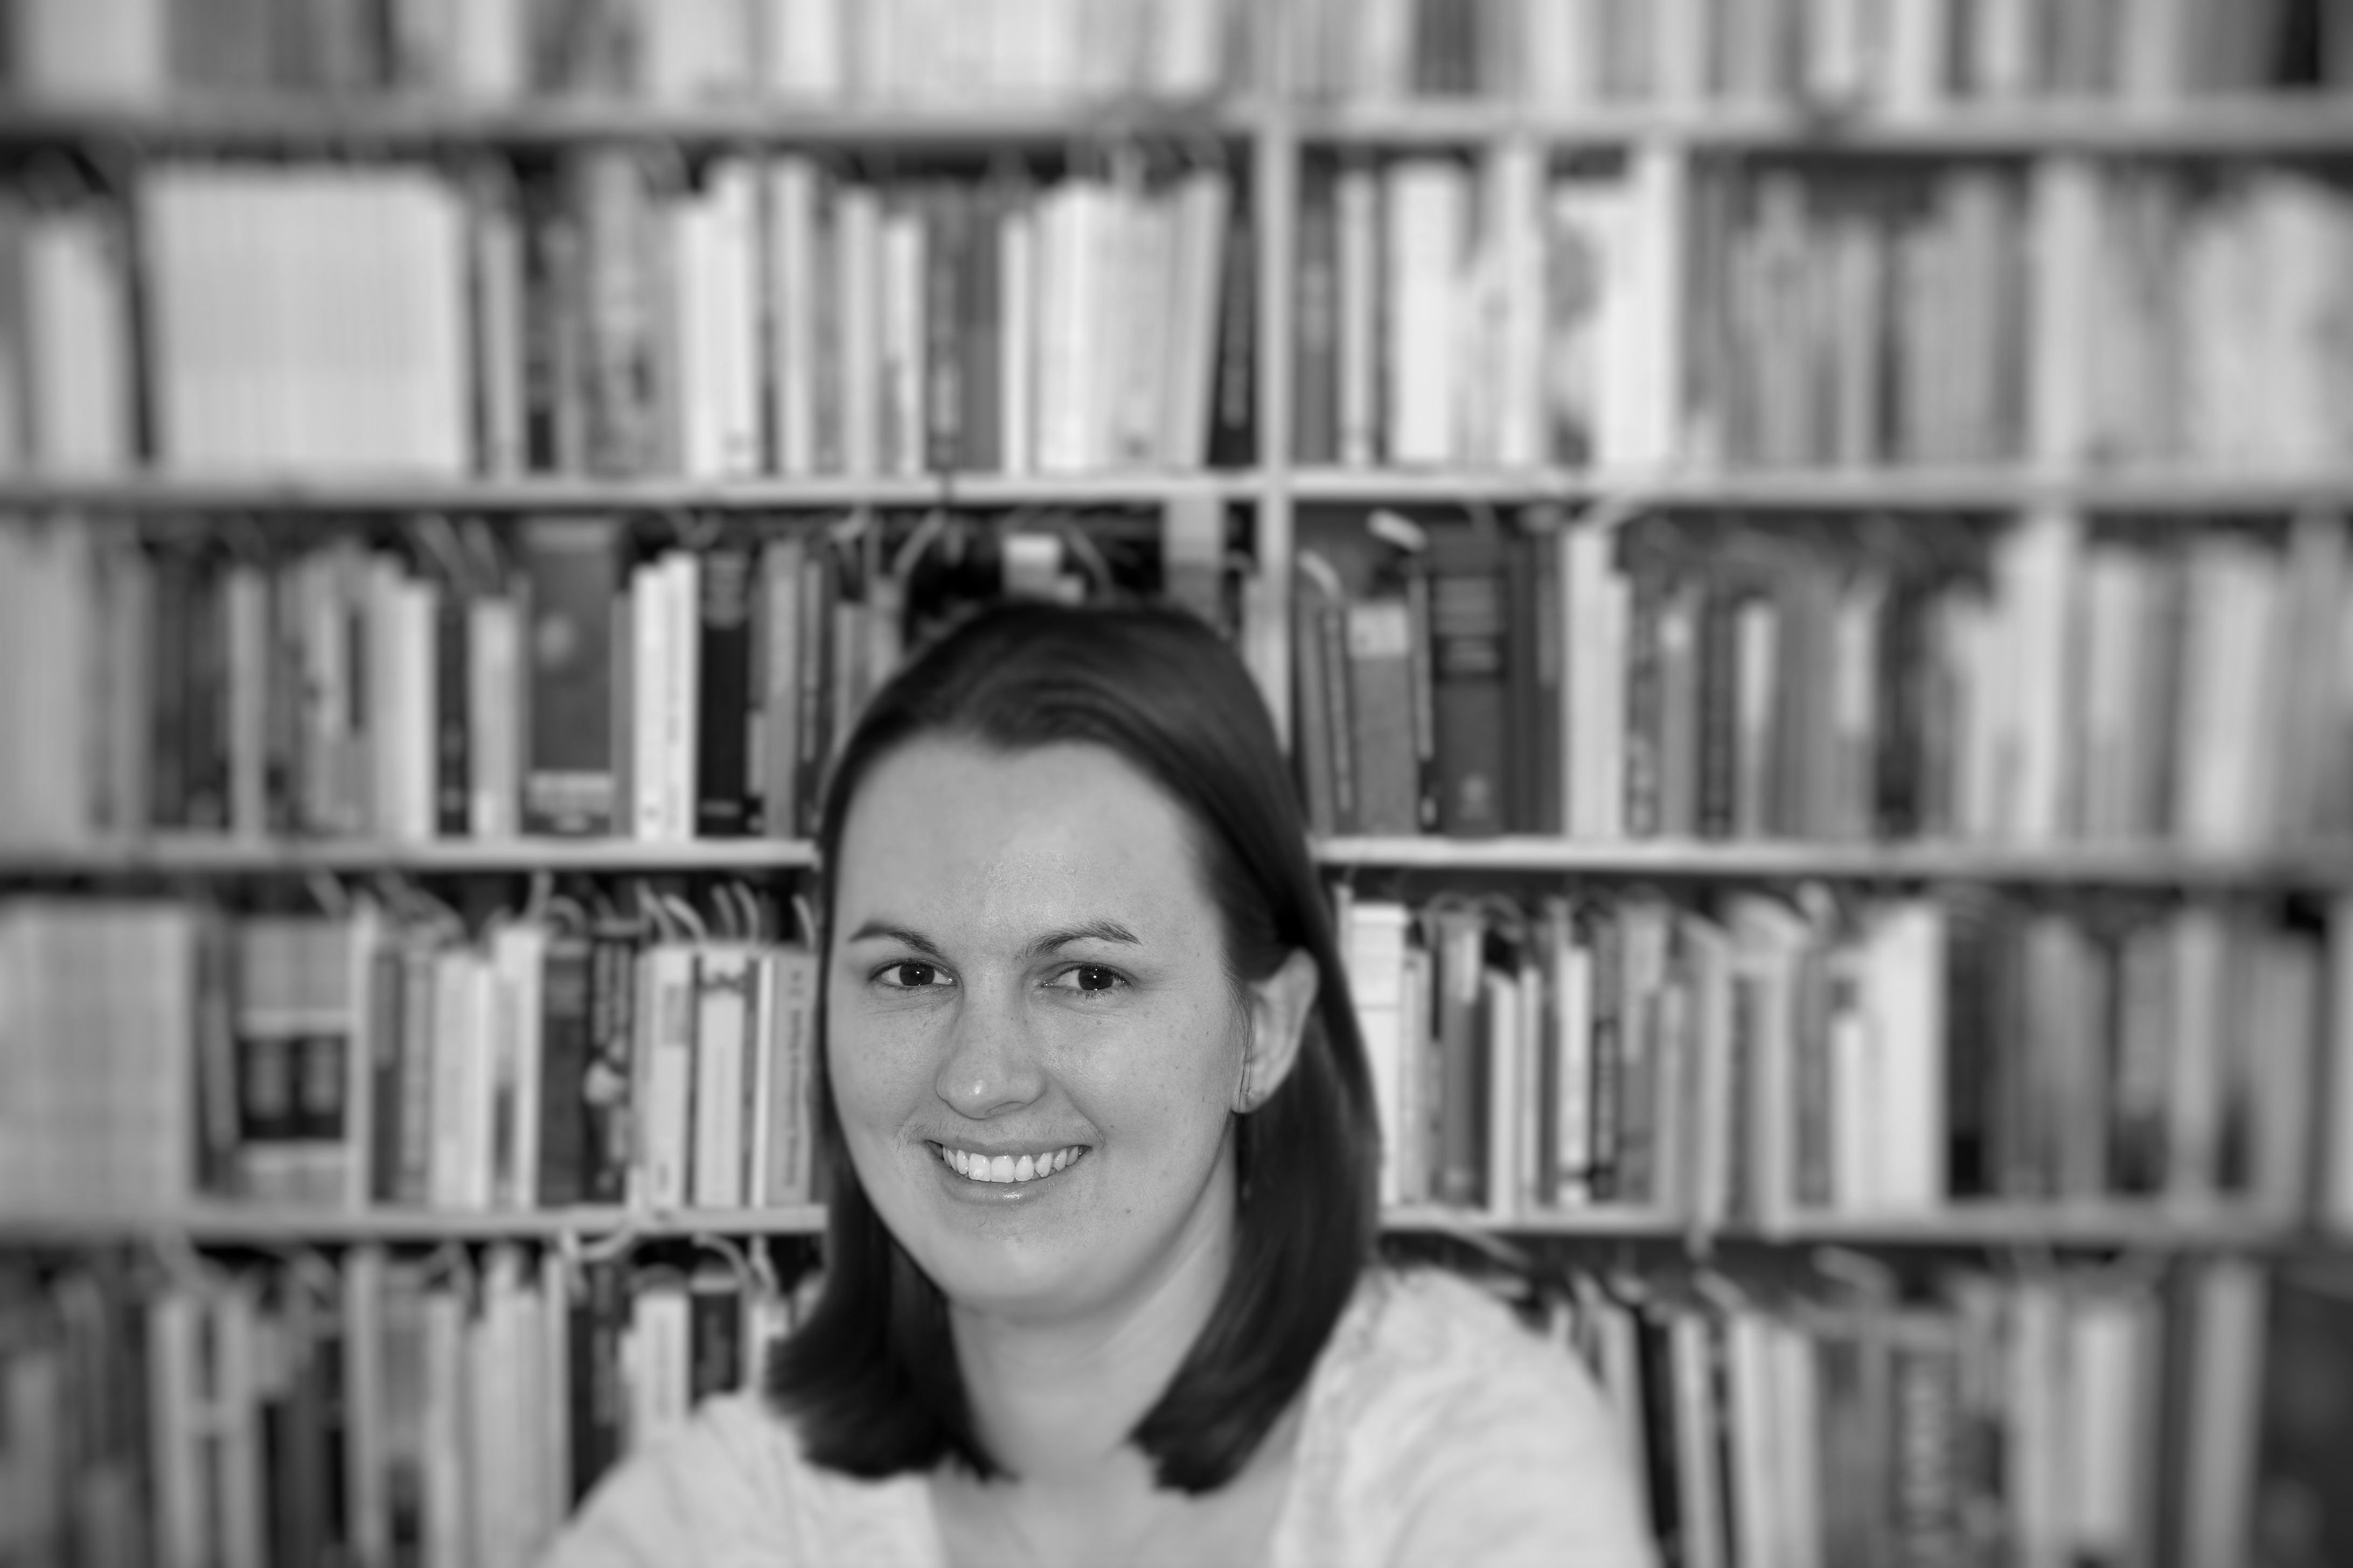
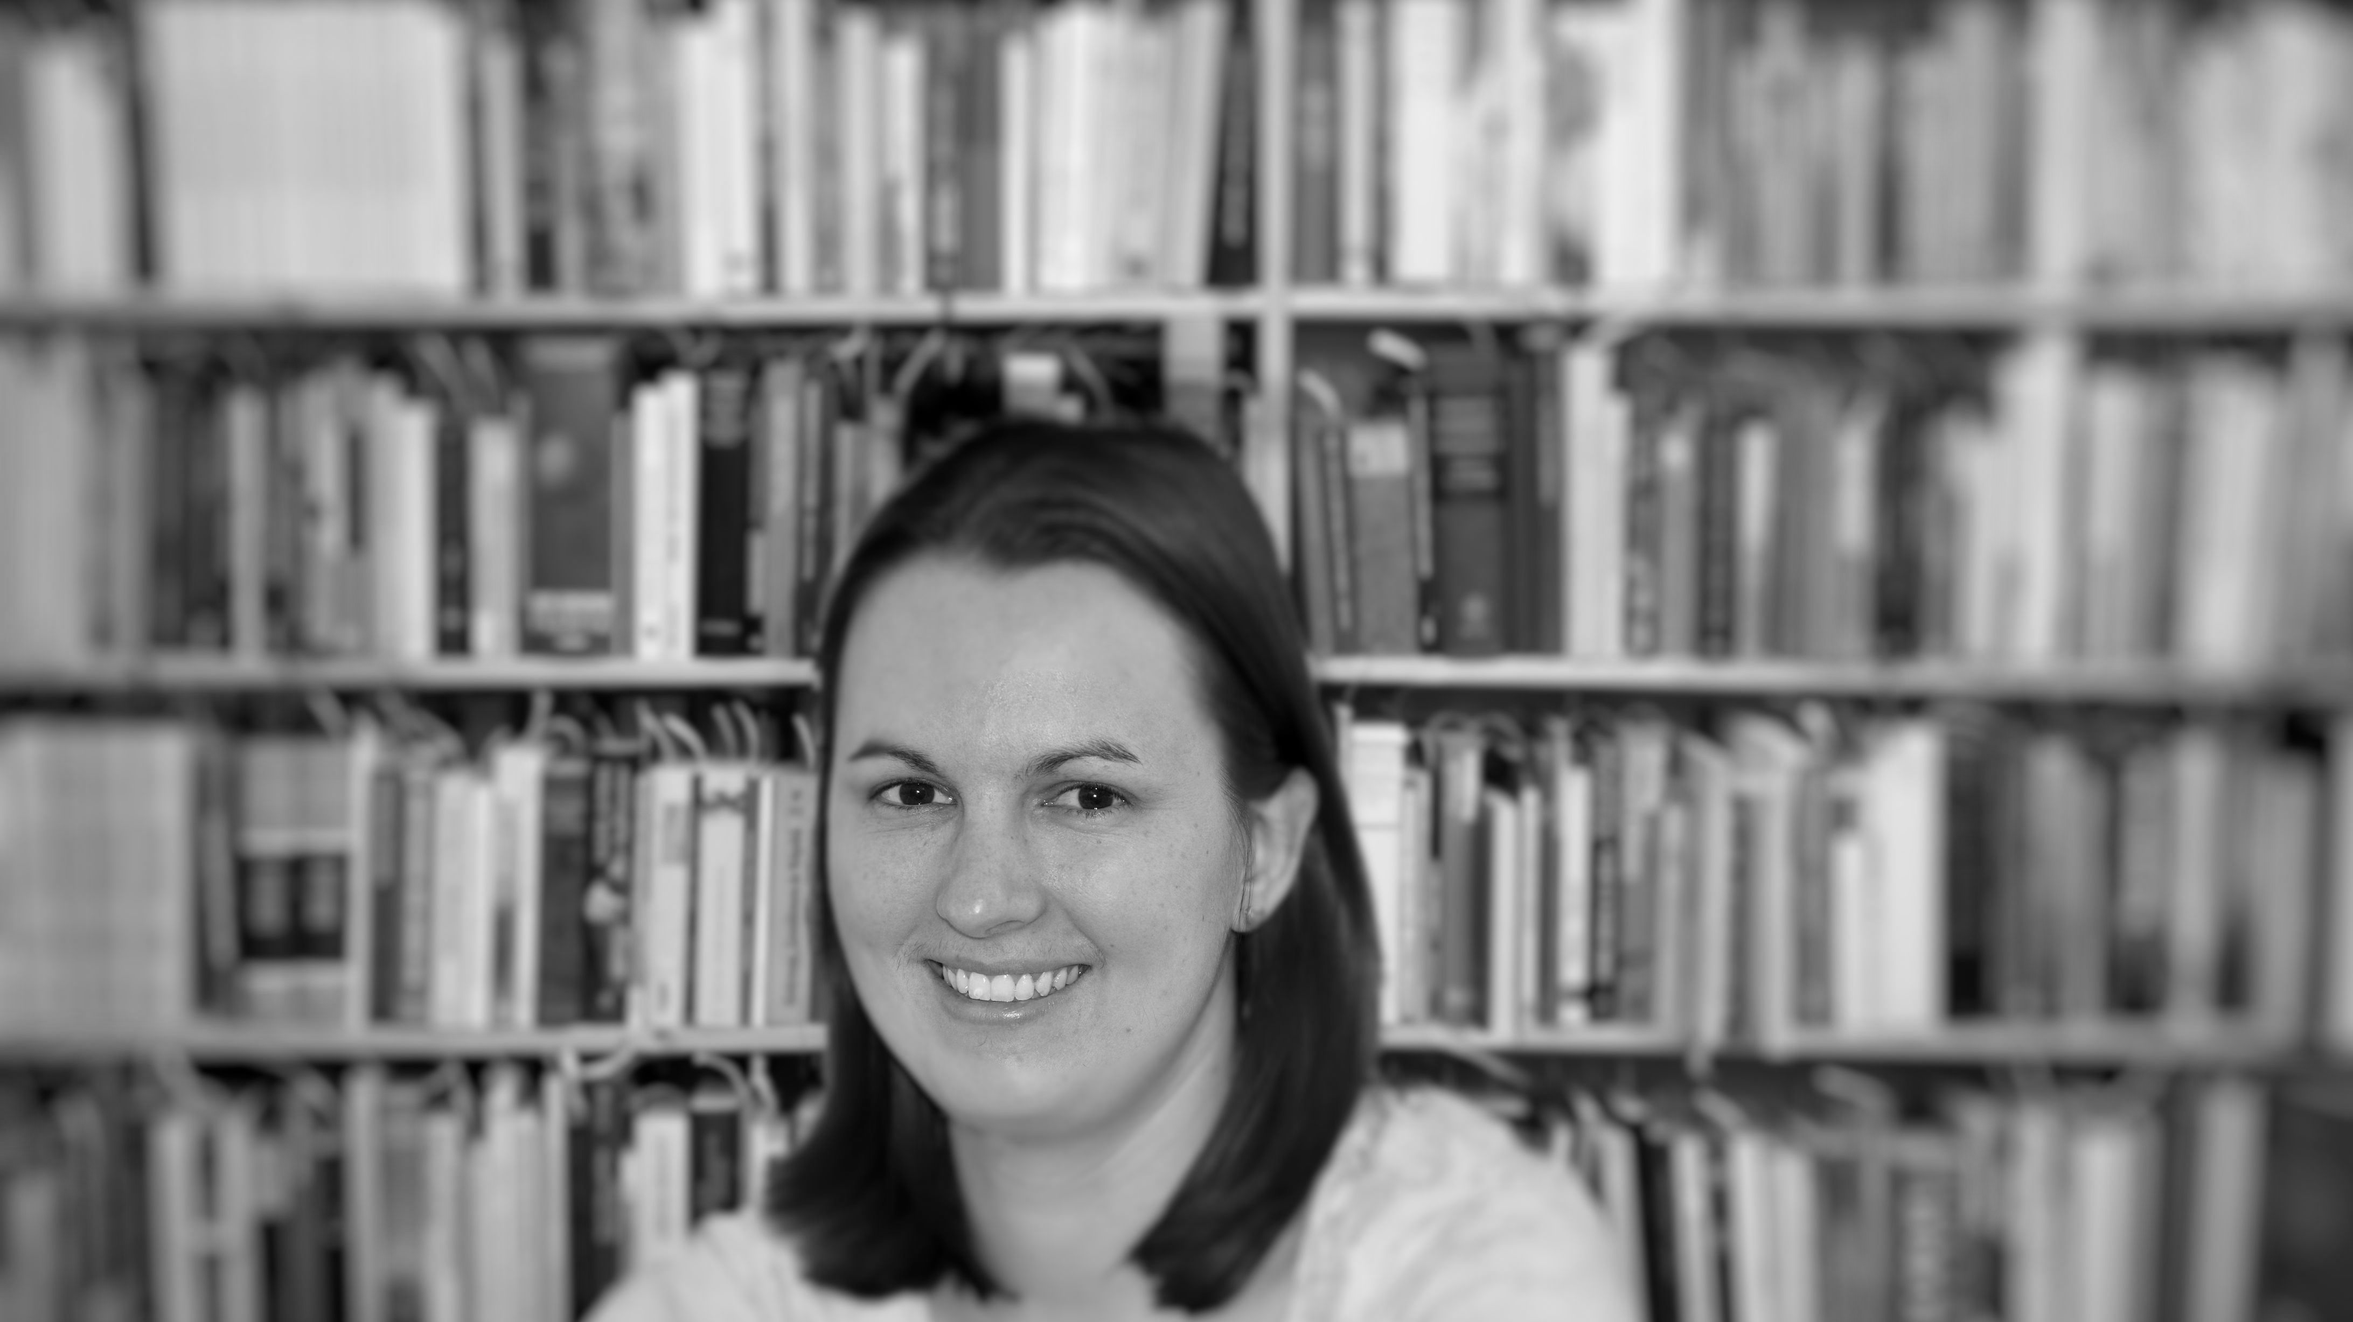
pics reuploaded (size), styling of tiles and footer

diff --git a/assets/css/style.css b/assets/css/style.css
@@ -17,37 +17,13 @@ h1 {
     color: #000000;
     font-size: 10rem;
 }
+
+
+.tiles {
+    height:80%;
+}
+
 /* title tiles
-
-.tile-one {
-    width: 50%;
-    position:relative;
-    top: 0px;
-   float: left;
-}
-
-.tile-two {
-    width: 50%;
-    position: relative;
-    top: 0px;
-   float:right;
-}
-
-.tile-three {
-    width: 50%;
-    position:relative;
-    bottom: 0px;
-    float: left;
-}
-
-.tile-four {
-    width: 50%;
-    position:relative;
-    bottom: 0px;
-    float: right;
-}
-
- */
 
 /*tile one */
 
@@ -75,8 +51,8 @@ h1 {
 .tiles .tile-one a h1 {
     position: absolute;
     top: 10%;
-    left: 16%;
-    font-size: 7vw;
+    left: 13%;
+    font-size: 6vw;
     color: white;
         }
 
@@ -106,8 +82,8 @@ h1 {
 .tiles .tile-two a h1 {
     position: absolute;
     top: 10%;
-    right: -10%;
-    font-size: 7vw;
+    right: 13%;
+    font-size: 6vw;
     color: white;
         }
 
@@ -123,7 +99,7 @@ h1 {
 }
 
 .tiles .tile-three a {
-    height: 45%;
+    height: 50%;
     width: 50%;
     background-color: cyan;
     position: relative;
@@ -138,8 +114,8 @@ h1 {
 .tiles .tile-three a h1 {
     position: absolute;
     bottom: 10%;
-    left: 10%;
-    font-size: 7vw;
+    left: 13%;
+    font-size: 6vw;
     color: white;
         }
 
@@ -155,7 +131,7 @@ h1 {
 }
 
 .tiles .tile-four a {
-    height: 45%;
+    height: 50%;
     width: 50%;
     background-color: cyan;
     position: relative;
@@ -170,20 +146,20 @@ h1 {
 .tiles .tile-four a h1 {
     position: absolute;
     bottom: 10%;
-    right: 10%;
-    font-size: 7vw;
+    right: 13%;
+    font-size: 6vw;
     color: white;
         }
 
 
-/*footer*/
-
-footer(
+footer {
     height=10%;
-    width=100%;
     background-color: cyan;
-)
-
+    font-family: Oswald, sans-serif;
+    font-size: 14px;
+    color:black;
+    text-align: center;
+}
 
 
 

diff --git a/index.html b/index.html
@@ -43,6 +43,10 @@
 </div>  
    </div>
 
-    <footer>social media, contact</footer>
+   <footer>
+       <div>
+           <p>copyright (r)2022 A.K. Amherst</p>
+       </div>
+   </footer>
 </body>
 </html>
